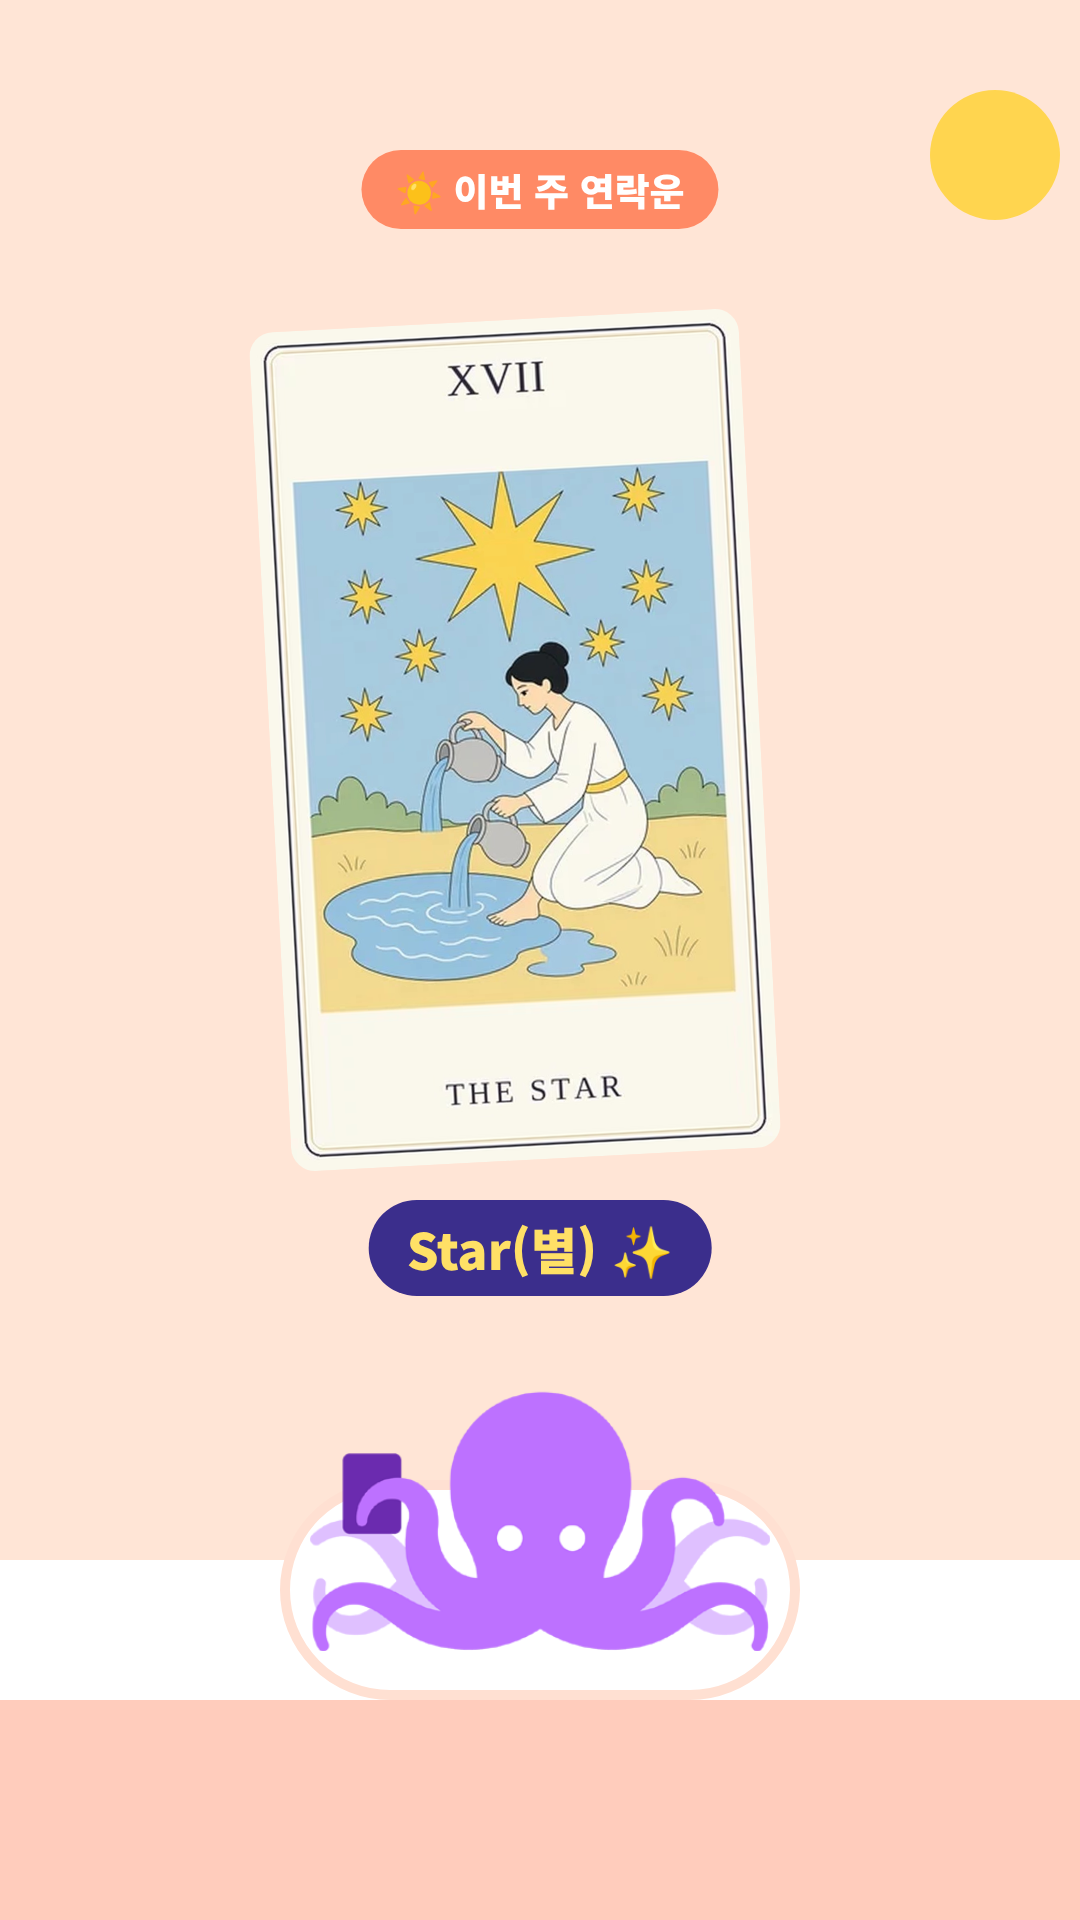
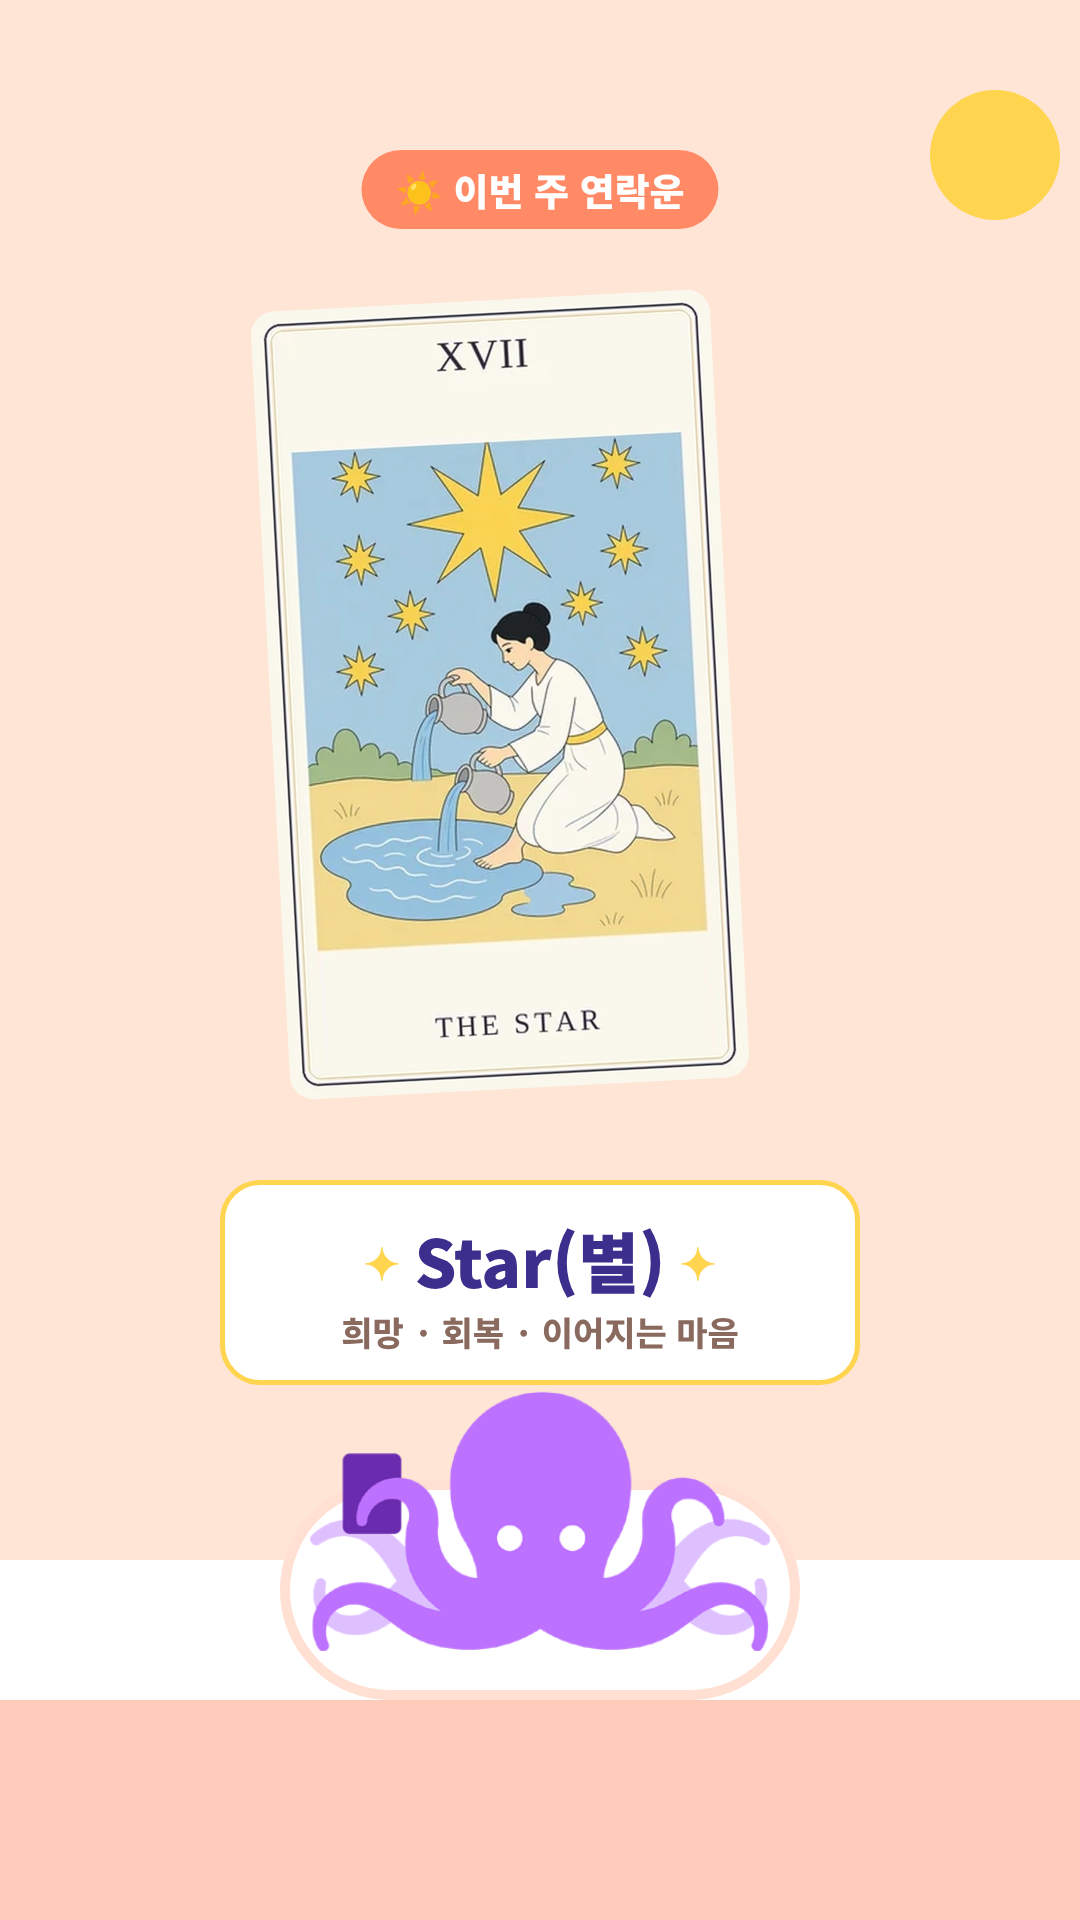
연락운 머리맡 알림: ③ Star(별) 이름판 디자인, ④ 카드 설명 길게
Claude-Session: https://claude.ai/code/session_01CejgdC5FKbbZMnpaYgrfgJ

Changed region(s): [[0.1833, 0.1562, 0.7944, 0.7188]]

diff --git a/promo/src/reel_mcall_03_reveal.html b/promo/src/reel_mcall_03_reveal.html
@@ -24,8 +24,12 @@
 .sunw{position:absolute;left:760px;top:460px;width:200px;height:200px;border-radius:50%;background:#FFD54F}
 .sunw{left:930px;top:90px;width:130px;height:130px}
 .fu{position:absolute;left:50%;top:270px;translate:-50% 0;padding:8px 34px;background:#FF7AB6;border-radius:999px;font-size:42px;font-weight:900;color:#FFF;z-index:6}
+.plate{position:absolute;left:50%;top:1180px;translate:-50% 0;width:640px;padding:20px 0 24px;background:#FFF;border:5px solid #FFD54F;border-radius:40px;text-align:center;z-index:6}
+.plate .no{display:inline-block;padding:4px 22px;border-radius:999px;background:#FF7AB6;color:#FFF;font-size:30px;font-weight:900;letter-spacing:.12em}
+.plate .nm2{display:block;margin-top:6px;font-size:66px;font-weight:900;color:#3B2E8C}.plate .nm2 i{font-style:normal;color:#FFD54F;font-size:44px;margin:0 14px;vertical-align:8px}
+.plate .kw{display:block;font-size:34px;font-weight:800;color:#8a6a5e}
 .nm{position:absolute;left:50%;top:1200px;translate:-50% 0;padding:12px 38px;background:#3B2E8C;border-radius:999px;font-size:50px;font-weight:900;color:#FFF;white-space:nowrap;z-index:6}.nm b{color:#FFE066}</style></head><body>
 <div class="f" id="frame">
 <span class="bd">☀ 이번 주 연락운</span><div class="sunw"></div>
-<div class="cd" style="top:320px;width:490px"><img class="tcard" src="cards/tr17@2x.jpg" alt="Star(별)" style="border:0;border-radius:24px;background:none"></div><span class="nm"><b>Star(별)</b> ✨</span><div class="bed" style="top:1560px"></div><div class="pillow" style="top:1480px;left:280px"></div><div class="blanket" style="top:1700px"></div><img src="../../images/mm01.png" style="position:absolute;left:310px;top:1380px;width:460px;z-index:2">
+<div class="cd" style="top:300px;width:460px"><img class="tcard" src="cards/tr17@2x.jpg" alt="Star(별)" style="border:0;border-radius:24px;background:none"></div><div class="plate"><span class="nm2"><i>✦</i>Star(별)<i>✦</i></span><span class="kw">희망 · 회복 · 이어지는 마음</span></div><div class="bed" style="top:1560px"></div><div class="pillow" style="top:1480px;left:280px"></div><div class="blanket" style="top:1700px"></div><img src="../../images/mm01.png" style="position:absolute;left:310px;top:1380px;width:460px;z-index:2">
 </div></body></html>

diff --git a/promo/src/reel_mcall_04_answer.html b/promo/src/reel_mcall_04_answer.html
@@ -38,5 +38,5 @@
 <div class="mini2" style="left:30px;top:840px"><div class="bk" style="background:#FF8A65;border-width:7px;border-radius:14px"><svg viewBox="0 0 10 10"><path d="M5 0Q5.6 4.4 10 5Q5.6 5.6 5 10Q4.4 5.6 0 5Q4.4 4.4 5 0z" fill="#FFE066"/></svg></div><b>과거</b></div><div class="mini2" style="left:190px;top:840px"><div class="bk" style="background:#FF8A65;border-width:7px;border-radius:14px"><svg viewBox="0 0 10 10"><path d="M5 0Q5.6 4.4 10 5Q5.6 5.6 5 10Q4.4 5.6 0 5Q4.4 4.4 5 0z" fill="#FFE066"/></svg></div><b>현재</b></div>
 <div class="cd" style="top:330px;width:470px;left:360px;margin-left:0"><img class="tcard" src="cards/tr17@2x.jpg" alt="Star(별)" style="border:0;border-radius:24px;background:none"></div>
 
-<div class="ans" style="top:1300px"><span class="mk">이번 주 안에 연락이 와요</span><small>Star(별) — 멈춰 있던 마음이 이어지는 카드</small></div>
+<div class="ans" style="top:1300px"><span class="mk">이번 주 안에 연락이 와요</span><small>Star(별) 카드는 긴 기다림 끝에<br>희망이 찾아오는 카드예요.<br>멈춰 있던 마음이 조금씩 이어지기 시작해요.</small></div>
 </div></body></html>
